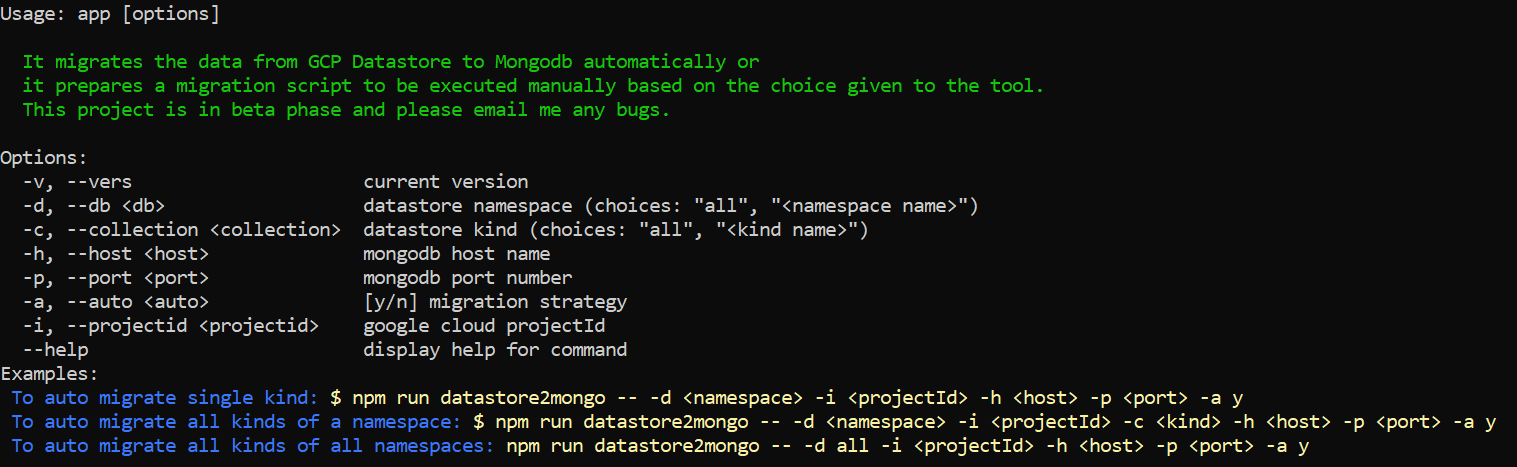
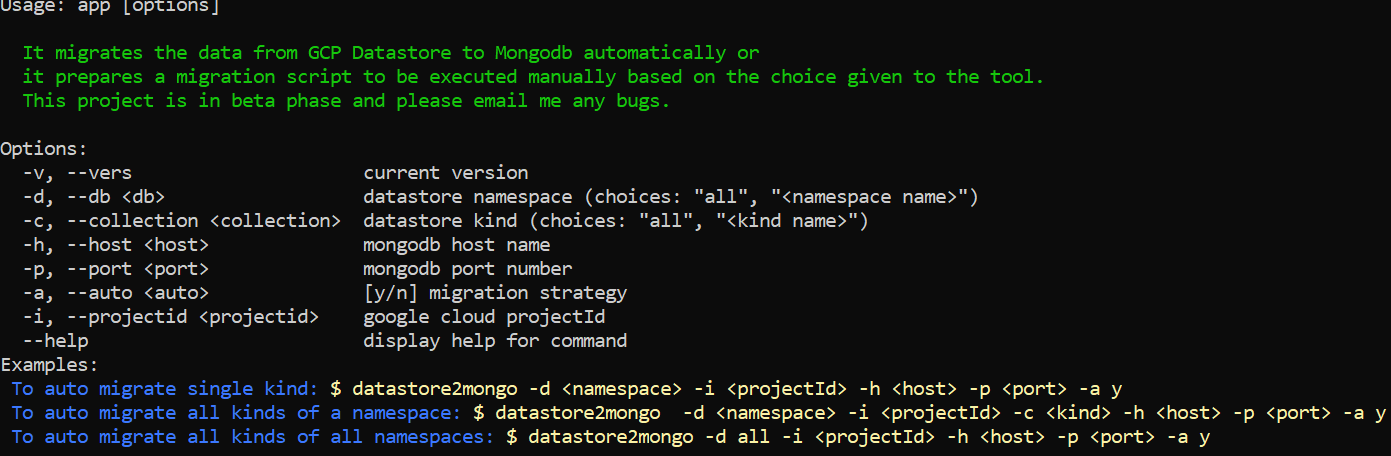
ok

Changed region(s): [[0.0, 0.307, 1.0, 0.9825], [0.0, 0.0921, 0.7419, 0.2763], [0.0, 0.0, 0.1546, 0.0614]]

diff --git a/app/app.ts b/app/app.ts
@@ -1,7 +1,7 @@
 #!/usr/bin/env node
 
 /*	
-      Copyright	(c)	2021 All Rights Reserved. 
+      Copyright (c) 2021 All Rights Reserved. 
       @author: Anshubana Panda	
       Node module: datastore2mongo
       This file is licensed under the Apache License Version 2.0
@@ -12,13 +12,13 @@ var colors = require('colors');
 import * as fse from 'fs-extra';
 
 const program = new Command();
-program.version('0.0.3', '-v, --vers', 'current version')
+program.version('0.0.4', '-v, --vers', 'current version')
       .description(colors.brightGreen('  It migrates the data from GCP Datastore to Mongodb automatically or \n  it prepares a migration script to be executed manually based on the choice given to the tool. \n  This project is in beta phase and please email me any bugs.'))
       .on('--help', function () {
             console.log('Examples:');
-            console.log(colors.brightBlue(' To auto migrate single kind: ')+colors.brightYellow('$ datastore2mongo -- -d <namespace> -i <projectId> -h <host> -p <port> -a y'));
-            console.log(colors.brightBlue(' To auto migrate all kinds of a namespace: ')+colors.brightYellow('$ datastore2mongo -- -d <namespace> -i <projectId> -c <kind> -h <host> -p <port> -a y '));
-            console.log(colors.brightBlue(' To auto migrate all kinds of all namespaces: ')+colors.brightYellow('$ datastore2mongo -- -d all -i <projectId> -h <host> -p <port> -a y'));
+            console.log(colors.brightBlue(' To auto migrate single kind: ')+colors.brightYellow('$ datastore2mongo -d <namespace> -i <projectId> -h <host> -p <port> -a y'));
+            console.log(colors.brightBlue(' To auto migrate all kinds of a namespace: ')+colors.brightYellow('$ datastore2mongo  -d <namespace> -i <projectId> -c <kind> -h <host> -p <port> -a y '));
+            console.log(colors.brightBlue(' To auto migrate all kinds of all namespaces: ')+colors.brightYellow('$ datastore2mongo -d all -i <projectId> -h <host> -p <port> -a y'));
             console.log('');
       })
       .option('-d, --db <db>', 'datastore namespace (choices: "all", "<namespace name>") ')

diff --git a/app/migration.ts b/app/migration.ts
@@ -1,6 +1,6 @@
 /*	
       Copyright	(c)	2021 All Rights Reserved. 
-      @author Anshubana Panda	
+      @author: Anshubana Panda	
       Node module: datastore2mongo
       This file is licensed under the Apache License Version 2.0
 */
